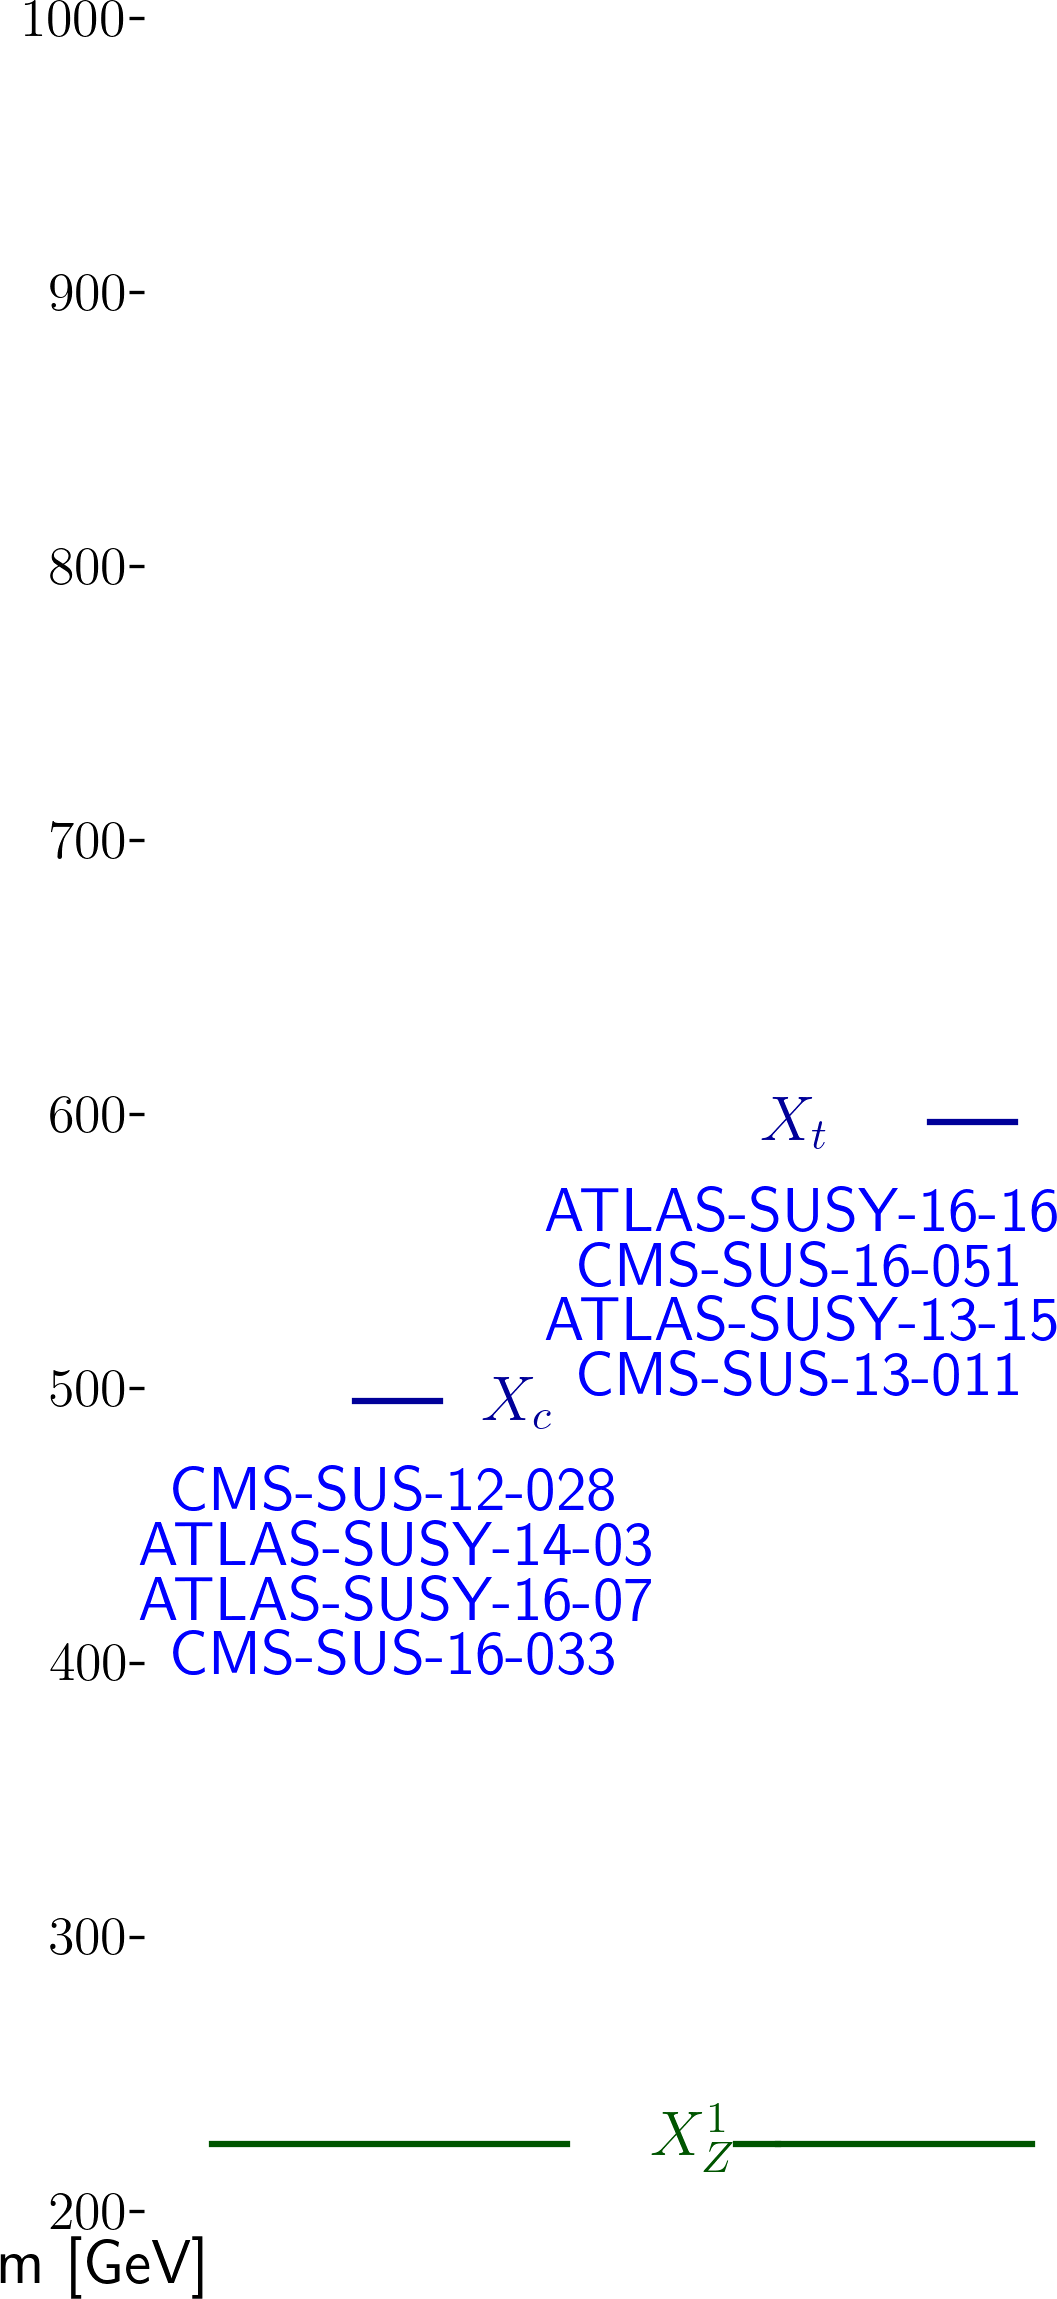
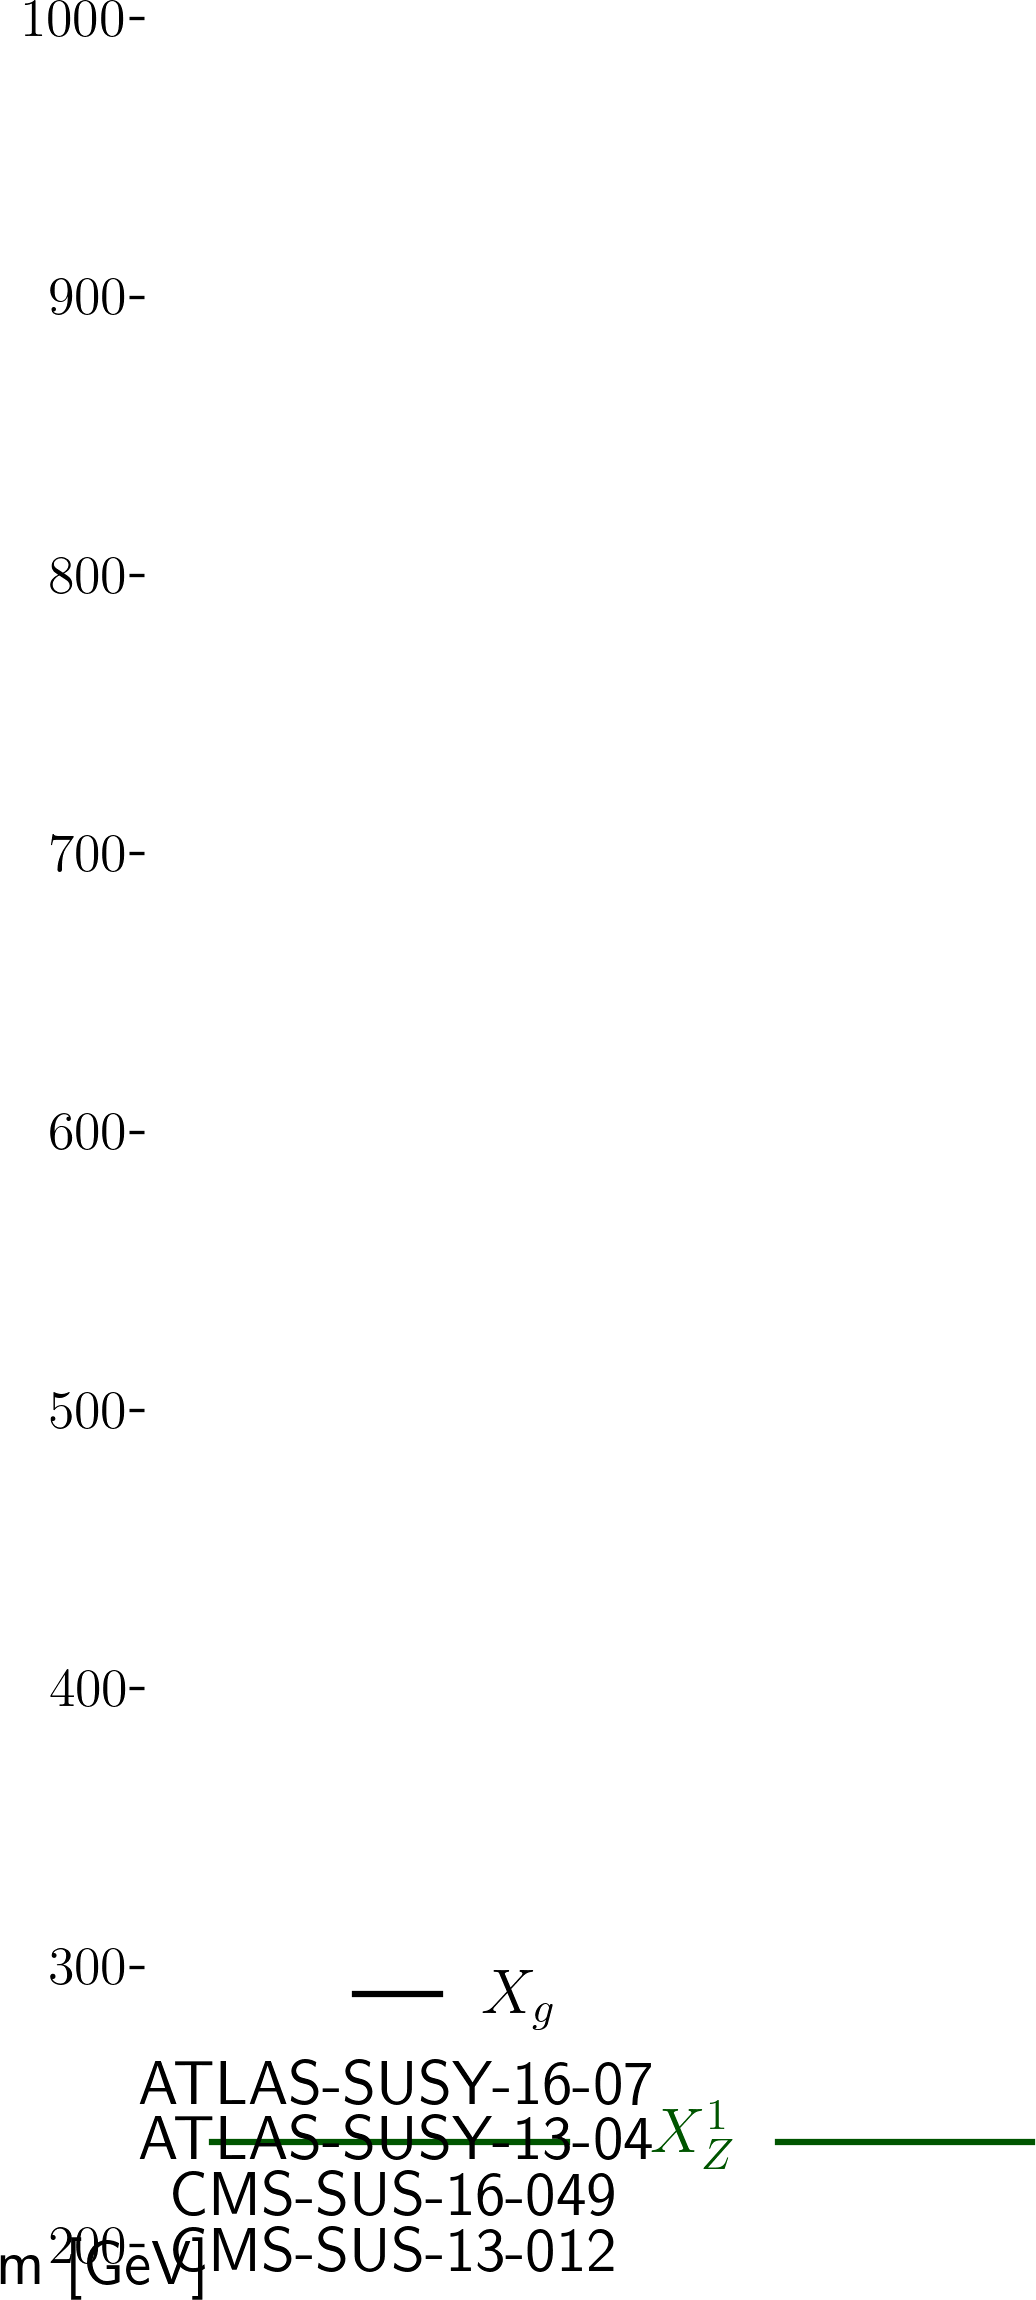
automated update by plotHiscore.py

diff --git a/protomodels/latest/index.html b/protomodels/latest/index.html
@@ -1,33 +1,28 @@
 <html>
 <body>
 <center>
-<table><td><h1>Current best protomodel: K=11.69</h1><td><img height=60px src=https://smodels.github.io/pics/banner.png></table>
+<table><td><h1>Current best protomodel: K=6.37</h1><td><img height=60px src=https://smodels.github.io/pics/banner.png></table>
 </center>
-<b><a href=./hiscore.slha>ProtoModel</a> <a href=./pmodel.py>(dict)</a> produced with <a href=https://smodels.github.io/docs/Validation124signal37>database v1.2.4signal37</a>, combination strategy <a href=./matrix_aggressive.png>aggressive</a> in walker 19 step 125.</b> K plots for: <a href=./M1000022.png?7469747>X<sub>Z</sub><sup>1</sup></a>, <a href=./M1000006.png?7469747>X<sub>t</sub></a>, <a href=./M1000004.png?7469747>X<sub>c</sub></a>. HPD plots for: <a href=./llhd1000006.png?7469747>X<sub>t</sub></a>, <a href=./llhd1000004.png?7469747>X<sub>c</sub></a>. SSM plots for: <a href=./ssm_-1000006_1000006.png?7469747>(x&#772;<sub>t</sub>,X<sub>t</sub>)</a><br>
+<b><a href=./hiscore.slha>ProtoModel</a> <a href=./pmodel.py>(dict)</a> produced with <a href=https://smodels.github.io/docs/Validation124signal36>database v1.2.4signal36</a>, combination strategy <a href=./matrix_aggressive.png>aggressive</a> in walker 22 step 111.</b> K plots for: <a href=./M1000022.png?7469749>X<sub>Z</sub><sup>1</sup></a>, <a href=./M1000005.png?7469749>X<sub>b</sub></a>, <a href=./M1000004.png?7469749>X<sub>c</sub></a>. HPD plots for: <a href=./llhd1000005.png?7469749>X<sub>b</sub></a>, <a href=./llhd1000004.png?7469749>X<sub>c</sub></a>. SSM plots for: <a href=./ssm_1000021_1000021.png?7469749>(X<sub>g</sub>,X<sub>g</sub>)</a><br>
 <table width=80%>
 <tr><td>
-<br><b>40 predictions available. Highest r values are:</b><br><ul>
-<li><a href=http://cms-results.web.cern.ch/cms-results/public-results/publications/SUS-16-033/index.html>CMS-SUS-16-033</a>:T2tt r=1.21, r<sub>exp</sub>=N/A<br>
-<li><a href=http://cms-results.web.cern.ch/cms-results/public-results/publications/SUS-16-049/index.html>CMS-SUS-16-049</a>:T2tt r=1.19, r<sub>exp</sub>=N/A<br>
-<li><a href=http://cms-results.web.cern.ch/cms-results/public-results/publications/SUS-16-036/index.html>CMS-SUS-16-036</a>:T2 r=1.17, r<sub>exp</sub>=N/A<br>
-<li><a href=http://cms-results.web.cern.ch/cms-results/public-results/publications/SUS-19-006/index.html>CMS-SUS-19-006</a>:T2tt r=0.88, r<sub>exp</sub>=N/A<br>
-<li><a href=https://atlas.web.cern.ch/Atlas/GROUPS/PHYSICS/PAPERS/SUSY-2016-26/>ATLAS-SUSY-2016-26</a>:T2cc r=0.87, r<sub>exp</sub>=N/A<br>
+<br><b>8 predictions available. Highest r values are:</b><br><ul>
+<li><a href=http://cms-results.web.cern.ch/cms-results/public-results/publications/SUS-16-036/index.html>CMS-SUS-16-036</a>:T2cc r=1.30, r<sub>exp</sub>=1.18<br>
+<li><a href=https://atlas.web.cern.ch/Atlas/GROUPS/PHYSICS/PAPERS/SUSY-2016-07/>ATLAS-SUSY-2016-07</a>:T2 r=0.58, r<sub>exp</sub>=0.68<br>
+<li><a href=http://cms-results.web.cern.ch/cms-results/public-results/publications/SUS-16-033/index.html>CMS-SUS-16-033</a>:T2 r=0.58, r<sub>exp</sub>=0.87<br>
+<li><a href=http://cms-results.web.cern.ch/cms-results/public-results/publications/SUS-16-049/index.html>CMS-SUS-16-049</a>:T2cc r=0.50, r<sub>exp</sub>=1.12<br>
+<li><a href=https://twiki.cern.ch/twiki/bin/view/CMSPublic/PhysicsResultsSUS13012>CMS-SUS-13-012</a>:T1bbbb,T2 r=0.31, r<sub>exp</sub>=0.33<br>
 </ul>
 <td><br><b>K values without analyses: (contribution)</b><br>
 <ul>
-<li> <a href=https://twiki.cern.ch/twiki/bin/view/CMSPublic/PhysicsResultsSUS13011>CMS-SUS-13-011</a>: 10.68 (5%)
-<li> <a href=https://atlas.web.cern.ch/Atlas/GROUPS/PHYSICS/PAPERS/SUSY-2013-15/>ATLAS-SUSY-2013-15</a>: 10.48 (6%)
-<li> <a href=http://cms-results.web.cern.ch/cms-results/public-results/publications/SUS-16-033/index.html>CMS-SUS-16-033</a>: 10.10 (8%)
-<li> <a href=https://twiki.cern.ch/twiki/bin/view/CMSPublic/PhysicsResultsSUS12028>CMS-SUS-12-028</a>: 9.03 (13%)
-<li> <a href=https://atlas.web.cern.ch/Atlas/GROUPS/PHYSICS/PAPERS/SUSY-2016-16/>ATLAS-SUSY-2016-16</a>: 8.65 (15%)
-<li> <a href=https://atlas.web.cern.ch/Atlas/GROUPS/PHYSICS/PAPERS/SUSY-2016-07/>ATLAS-SUSY-2016-07</a>: 8.51 (15%)
-<li> <a href=https://atlas.web.cern.ch/Atlas/GROUPS/PHYSICS/PAPERS/SUSY-2014-03/>ATLAS-SUSY-2014-03</a>: 8.31 (16%)
-<li> <a href=http://cms-results.web.cern.ch/cms-results/public-results/publications/SUS-16-051/index.html>CMS-SUS-16-051</a>: 6.85 (23%)
-<td><img width=600px src=./texdoc.png?1600469747>
-<br><font size=-1>Last updated: Sat Sep 19 00:55:47 2020</font>
+<li> <a href=>CMS-SUS-12-028</a>: 4.24 (16%)
+<li> <a href=>ATLAS-SUSY-2013-02</a>: 4.11 (17%)
+<li> <a href=http://cms-results.web.cern.ch/cms-results/public-results/publications/SUS-16-049/index.html>CMS-SUS-16-049</a>: -2.77 (68%)
+<td><img width=600px src=./texdoc.png?1600469749>
+<br><font size=-1>Last updated: Sat Sep 19 00:55:49 2020</font>
 </table><table style="width:80%">
-<td width=45%><img height=580px src=./ruler.png?1600469747><td width=55%><img height=380px src=./decays.png?1600469747>
-<font size=-3><iframe type="text/html" height="220px" width="100%s" frameborder="0" src="./rawnumbers.html?1600469747"></iframe></font>
+<td width=45%><img height=580px src=./ruler.png?1600469749><td width=55%><img height=380px src=./decays.png?1600469749>
+<font size=-3><iframe type="text/html" height="220px" width="100%s" frameborder="0" src="./rawnumbers.html?1600469749"></iframe></font>
 </table>
 </body>
 </html>

diff --git a/protomodels/latest/rawnumbers.html b/protomodels/latest/rawnumbers.html
@@ -1,12 +1,8 @@
 <table>
 <tr><th>Analysis Name</th><th>Type</th><th>Dataset</th><th>Topos</th><th>Observed</th><th>Expected</th><th>Approx &sigma;</th><th>Particles</th><th>Signal</th>
 </tr>
-<tr><td><a href=https://atlas.web.cern.ch/Atlas/GROUPS/PHYSICS/PAPERS/SUSY-2013-15/>ATLAS-SUSY-2013-15</a></td><td>em</td> <td>tNboost</td><td>T2tt</td><td>4</td><td>3.3 +/- 0.7</td><td style="text-align:right">0.4 &sigma;</td><td style="text-align:right">X<sub>t</sub></td><td style="text-align:right">0</td></tr>
-<tr><td><a href=https://atlas.web.cern.ch/Atlas/GROUPS/PHYSICS/PAPERS/SUSY-2014-03/>ATLAS-SUSY-2014-03</a></td><td>em</td> <td>mCT200</td><td>TScharm</td><td>25</td><td>16 +/- 3</td><td style="text-align:right">1.8 &sigma;</td><td style="text-align:right">X<sub>c</sub></td><td style="text-align:right">-</td></tr>
-<tr><td><a href=https://atlas.web.cern.ch/Atlas/GROUPS/PHYSICS/PAPERS/SUSY-2016-07/>ATLAS-SUSY-2016-07</a></td><td>em</td> <td>4j_Meff_1800</td><td>T2</td><td>64</td><td>49 +/- 7</td><td style="text-align:right">1.5 &sigma;</td><td style="text-align:right">X<sub>c</sub></td><td style="text-align:right">18</td></tr>
-<tr><td><a href=https://atlas.web.cern.ch/Atlas/GROUPS/PHYSICS/PAPERS/SUSY-2016-16/>ATLAS-SUSY-2016-16</a></td><td>em</td> <td>tN_med</td><td>T2tt</td><td>50</td><td>36.3 +/- 6.6</td><td style="text-align:right">1.5 &sigma;</td><td style="text-align:right">X<sub>t</sub></td><td style="text-align:right">20</td></tr>
-<tr><td><a href=https://twiki.cern.ch/twiki/bin/view/CMSPublic/PhysicsResultsSUS12028>CMS-SUS-12-028</a></td><td>ul</td> <td>-</td><td>T2</td><td> 622.7 fb </td><td> 311.6 fb</td><td style="text-align:right">2.0 &sigma;</td><td style="text-align:right">X<sub>c</sub></td><td style="text-align:right">1.57 fb</td></tr>
-<tr><td><a href=https://twiki.cern.ch/twiki/bin/view/CMSPublic/PhysicsResultsSUS13011>CMS-SUS-13-011</a></td><td>em</td> <td>LM150</td><td>T2tt</td><td>192</td><td>251 +/- 50</td><td style="text-align:right">-1.1 &sigma;</td><td style="text-align:right">X<sub>t</sub></td><td style="text-align:right">-</td></tr>
-<tr><td><a href=http://cms-results.web.cern.ch/cms-results/public-results/publications/SUS-16-033/index.html>CMS-SUS-16-033</a></td><td>ul</td> <td>-</td><td>T2</td><td> 432.7 fb </td><td> 238.9 fb</td><td style="text-align:right">1.6 &sigma;</td><td style="text-align:right">X<sub>c</sub></td><td style="text-align:right">20.90 fb</td></tr>
-<tr><td><a href=http://cms-results.web.cern.ch/cms-results/public-results/publications/SUS-16-051/index.html>CMS-SUS-16-051</a></td><td>ul</td> <td>-</td><td>T2tt</td><td> 91.8 fb </td><td> 44.4 fb</td><td style="text-align:right">2.1 &sigma;</td><td style="text-align:right">X<sub>t</sub></td><td style="text-align:right">28.69 fb</td></tr>
+<tr><td><a href=https://atlas.web.cern.ch/Atlas/GROUPS/PHYSICS/PAPERS/SUSY-2013-04/>ATLAS-SUSY-2013-04</a></td><td>em</td> <td>GtGrid_SR_8ej50 ...</td><td>T1bbbb</td><td>41</td><td>35 +/- 4</td><td style="text-align:right">0.8 &sigma;</td><td style="text-align:right">X<sub>g</sub></td><td style="text-align:right">0</td></tr>
+<tr><td><a href=https://atlas.web.cern.ch/Atlas/GROUPS/PHYSICS/PAPERS/SUSY-2016-07/>ATLAS-SUSY-2016-07</a></td><td>em</td> <td>4j_Meff_1400</td><td>T2</td><td>212</td><td>182 +/- 16</td><td style="text-align:right">1.4 &sigma;</td><td style="text-align:right">X<sub>g</sub></td><td style="text-align:right">26</td></tr>
+<tr><td><a href=https://twiki.cern.ch/twiki/bin/view/CMSPublic/PhysicsResultsSUS13012>CMS-SUS-13-012</a></td><td>em</td> <td>6NJet8_500HT800 ...</td><td>T1bbbb, T2</td><td>1</td><td>0.8 +/- 3.3</td><td style="text-align:right">0.1 &sigma;</td><td style="text-align:right">X<sub>g</sub></td><td style="text-align:right">0</td></tr>
+<tr><td><a href=http://cms-results.web.cern.ch/cms-results/public-results/publications/SUS-16-049/index.html>CMS-SUS-16-049</a></td><td>ul</td> <td>-</td><td>T2cc</td><td> 6004.4 fb </td><td> 2691.8 fb</td><td style="text-align:right">2.4 &sigma;</td><td style="text-align:right">X<sub>g</sub></td><td style="text-align:right">-</td></tr>
 </table>

diff --git a/protomodels/latest/pmodel.py b/protomodels/latest/pmodel.py
@@ -1,1 +1,1 @@
-{'masses': {1000022: 214.292, 1000006: 587.178, 1000004: 485.279}, 'ssmultipliers': {(1000022, 1000022): 0.114, (1000006, 1000006): 0.159, (-1000006, 1000006): 0.159, (-1000006, -1000006): 0.159, (1000006, 1000022): 0.159, (-1000006, 1000022): 0.159, (1000004, 1000004): 0.562, (-1000004, 1000004): 0.591, (-1000004, -1000004): 0.562, (1000004, 1000022): 0.562, (-1000004, 1000022): 0.0, (1000004, 1000006): 0.668, (-1000004, 1000006): 0.668, (-1000006, 1000004): 0.668, (-1000006, -1000004): 0.668}, 'decays': {1000022: {}, 1000006: {1000022: 1.0}, 1000004: {1000022: 1.0}}, 'timestamp': 'Sat Sep 19 00:55:39 2020', 'Z': 3.93, 'K': 11.694, 'step': 125, 'codever': '1.0', 'dbver': '1.2.4signal37'}
+{'masses': {1000022: 227.067, 1000021: 280.275}, 'ssmultipliers': {(1000022, 1000022): 0.003, (1000021, 1000021): 0.025, (1000021, 1000022): 0.025}, 'decays': {1000022: {}, 1000021: {(1000022, 5): 0.557, (1000022, 21): 0.443}}, 'timestamp': 'Sat Sep 19 00:55:39 2020', 'Z': 3.02, 'K': 6.368, 'step': 111, 'codever': '1.0', 'dbver': '1.2.4signal36'}
